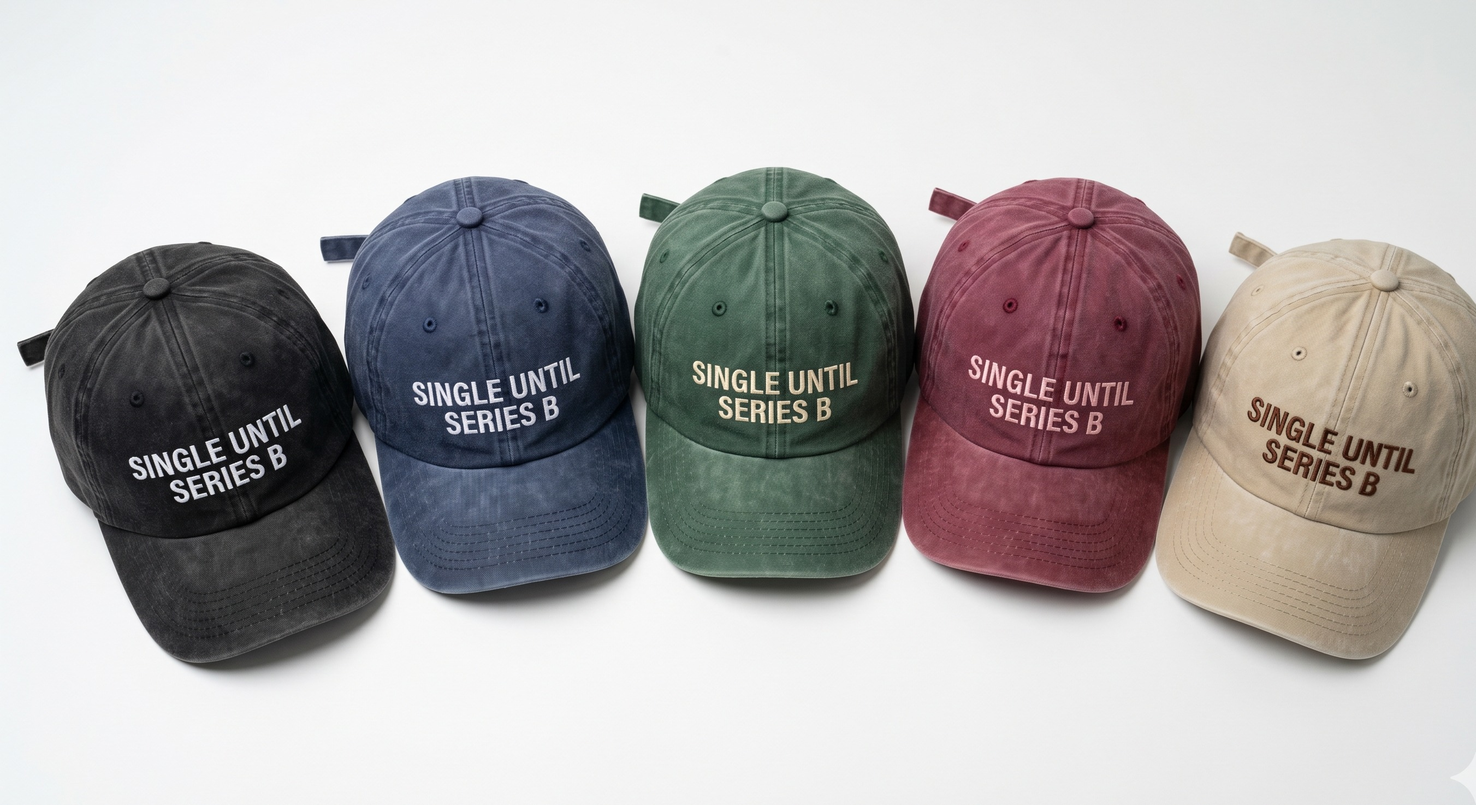
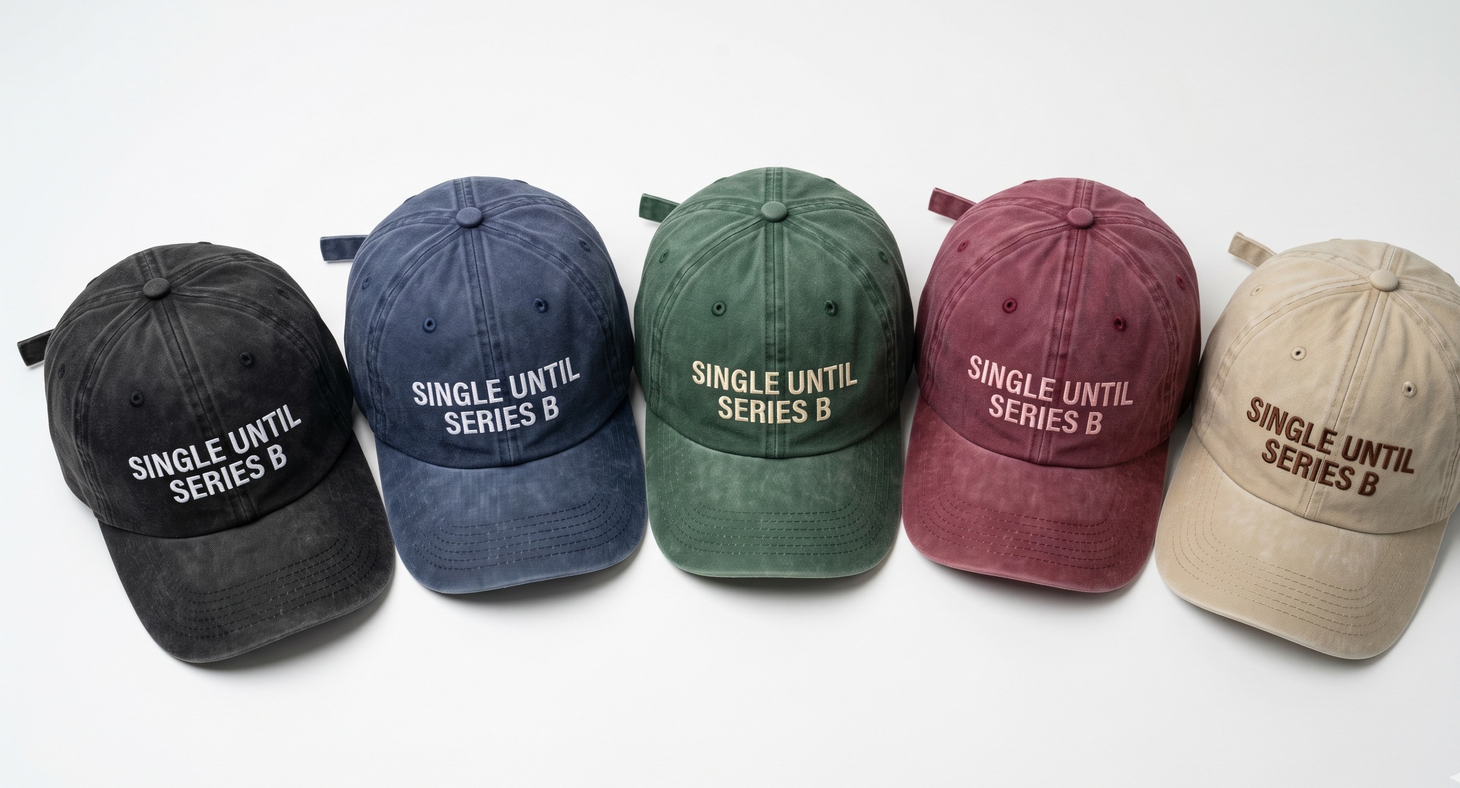
fix: honest FAQ copy, remove unverified claims, fix lineup watermark
- Shipping: changed from specific dates to "4-6 weeks, we'll email"
  (no supplier timeline confirmed yet)
- International: removed "US partner" claim (not set up yet),
  added honest "import duties may apply" disclosure
- Removed "genuinely well-made" (no sample tested)
- Removed "doesn't peel after one wash" (unverified)
- Removed "no regrets (probably)" from tagline
- Fixed lineup.jpg — cropped Gemini watermark properly

Changed region(s): [[0.0, 0.1871, 1.0, 0.8732]]

diff --git a/index.html b/index.html
@@ -349,7 +349,7 @@
     <div class="hero-info">
       <div class="hero-badge">Pre-order open · <span id="hero-count">0</span>/200</div>
       <h1 class="hero-title">Single Until Series B</h1>
-      <p class="hero-tagline">The cap that says what your LinkedIn bio won't. 200 made. No restock. No regrets (probably).</p>
+      <p class="hero-tagline">The cap that says what your LinkedIn bio won't. 200 made. No restock.</p>
       <div class="hero-price-row">
         <span class="hero-price">£28</span>
         <span class="hero-price-note">all-in · VAT + UK shipping included</span>
@@ -379,8 +379,8 @@
       </div>
       <div class="details-text">
         <h2 class="section-title">Not a Printful generic.</h2>
-        <p>Washed cotton twill. Flat embroidery that doesn't peel after one wash. Unstructured six-panel dad hat with a brass buckle closure.</p>
-        <p><strong>The kind of cap that gets better the more you wear it.</strong> The joke might fade. The cap won't.</p>
+        <p>Washed cotton twill. Flat embroidery. Unstructured six-panel dad hat with a brass buckle closure.</p>
+        <p><strong>A proper cap with a good joke on it.</strong></p>
         <div class="spec-list">
           <div class="spec-row"><span class="spec-label">Fabric</span><span class="spec-val">100% washed cotton twill</span></div>
           <div class="spec-row"><span class="spec-label">Decoration</span><span class="spec-val">Flat embroidery</span></div>
@@ -415,7 +415,7 @@
     <div class="faq-list">
       <div class="faq-item" onclick="this.classList.toggle('open')">
         <div class="faq-q">When does it ship? <span class="faq-icon">+</span></div>
-        <div class="faq-a">If we hit 100 pre-orders by 15 June, production starts immediately. Late June for UK, early July for international.</div>
+        <div class="faq-a">If we hit 100 pre-orders by 15 June, we go to production. Estimated delivery is 4–6 weeks after the pre-order window closes. We'll email you with exact timelines once production is confirmed.</div>
       </div>
       <div class="faq-item" onclick="this.classList.toggle('open')">
         <div class="faq-q">What if you don't hit 100? <span class="faq-icon">+</span></div>
@@ -427,11 +427,11 @@
       </div>
       <div class="faq-item" onclick="this.classList.toggle('open')">
         <div class="faq-q">International shipping? <span class="faq-icon">+</span></div>
-        <div class="faq-a">Worldwide. US orders fulfilled from a US partner — no customs surprises. EU and rest-of-world ships from the UK. Shipping cost shown before you pay.</div>
+        <div class="faq-a">We ship worldwide. International shipping costs vary by destination and will be shown before you pay. Import duties may apply depending on your country.</div>
       </div>
       <div class="faq-item" onclick="this.classList.toggle('open')">
         <div class="faq-q">Is this a joke? <span class="faq-icon">+</span></div>
-        <div class="faq-a">The phrase is funny. The cap is genuinely well-made. The pre-order is real. Your relationship status is your business.</div>
+        <div class="faq-a">The phrase is funny. The pre-order is real. The cap is embroidered on quality washed cotton twill. Your relationship status is your business.</div>
       </div>
     </div>
     <div class="guarantee">
